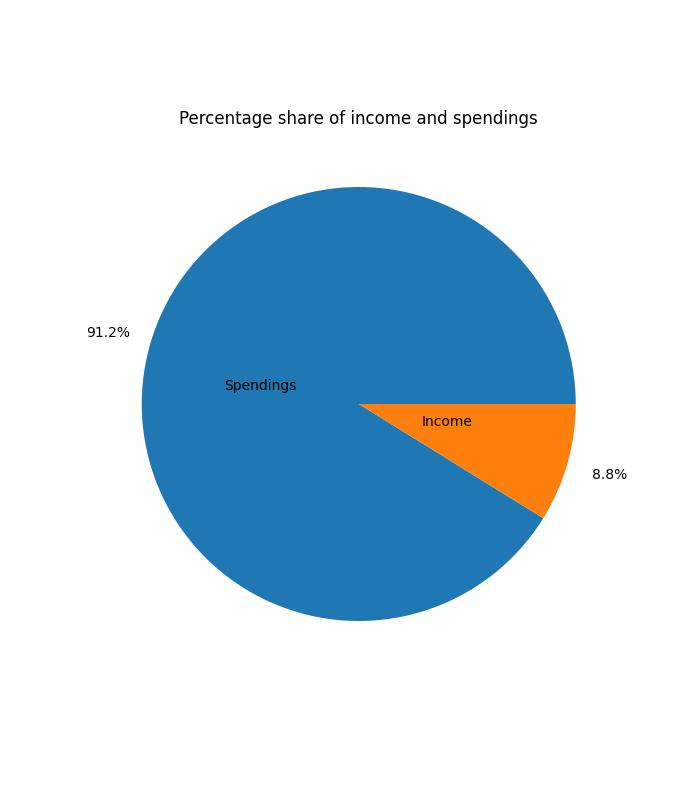
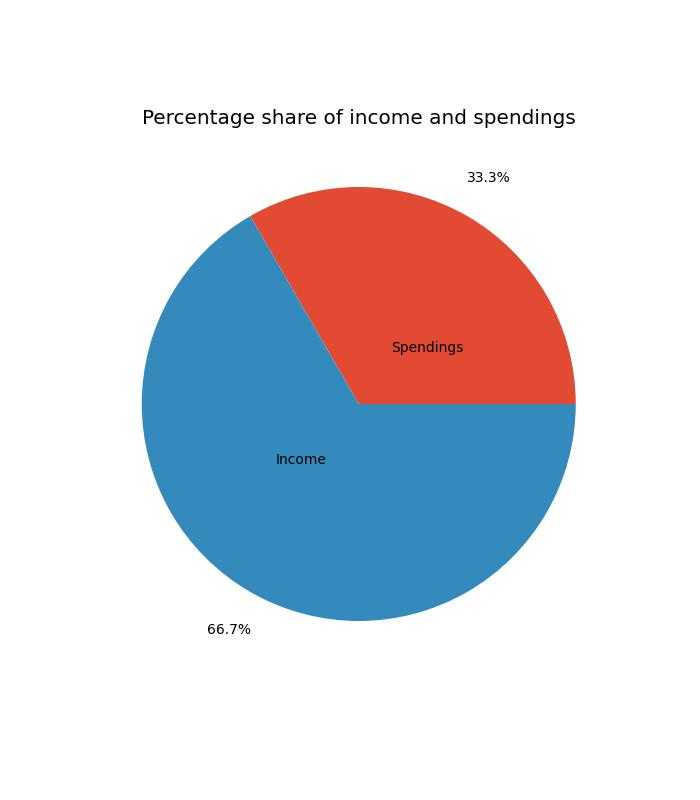
Final touches

diff --git a/src/mainscreen.py b/src/mainscreen.py
@@ -1,23 +1,23 @@
-from editspending import EditSpending
 from editincome import EditIncome
+from editspending import EditSpending
 
 from matplotlib import pyplot as plt
 
 from kivy.core.window import Window
 from kivy.storage.jsonstore import JsonStore
 
-from kivymd.uix.label.label import MDIcon
 from kivy.uix.image import Image
 from kivymd.uix.card import MDCard
 from kivymd.uix.label import MDLabel
 from kivymd.uix.screen import MDScreen
-from kivymd.uix.scrollview import ScrollView
+from kivymd.uix.label.label import MDIcon
 from kivymd.uix.gridlayout import GridLayout
+from kivymd.uix.scrollview import ScrollView
 from kivymd.uix.stacklayout import StackLayout
+from kivymd.uix.relativelayout import MDRelativeLayout
+from kivymd.uix.button import MDRectangleFlatIconButton
 from kivymd.uix.button.button import MDFloatingActionButton
 from kivymd.uix.bottomnavigation import MDBottomNavigation, MDBottomNavigationItem
-from kivymd.uix.button import MDRectangleFlatIconButton
-from kivymd.uix.relativelayout import MDRelativeLayout
 
 
 class MainScreen(MDScreen):
@@ -306,8 +306,9 @@ class MainScreen(MDScreen):
         self.total_amount.append(self.spending_total_amount)
         self.total_amount.append(self.income_total_amount)
         self.type = ["Spendings", "Income"]
-        plt.clf()
         bar_width = 0.25
+        plt.clf()
+        plt.style.use("ggplot")
         fig, ax = plt.subplots(figsize=(7, 8))
         ax.bar(
             self.months,

diff --git a/src/settingsscreen.py b/src/settingsscreen.py
@@ -1,11 +1,24 @@
+from kivymd.uix.list import MDList
 from kivymd.uix.screen import MDScreen
 from kivymd.uix.list import OneLineListItem
-from kivymd.uix.list import MDList
 from kivymd.uix.scrollview import MDScrollView
 
 
 class SettingsScreen(MDScreen):
-    def on_enter(self):
-        self.add_widget(MDScrollView(MDList(id="list")))
-        for i in range(20):
-            self.ids.list.add_widget(OneLineListItem(text=f"siema {i}"))
+    def on_pre_enter(self):
+        self.currencies = ["$", "€", "£", "¥", "₣", "zł"]
+        self.view = MDScrollView()
+        self.list = MDList()
+        self.ids["list"] = self.list
+        self.view.add_widget(self.list)
+        for cur in self.currencies:
+            self.list.add_widget(
+                OneLineListItem(text=cur, id=cur, on_release=self.save_to_file)
+            )
+        self.add_widget(self.view)
+
+    def save_to_file(self, instance=None):
+        self.file = open("currency.txt", "w")
+        self.currency = str(instance.id)
+        print(f"Something happened: {instance.id}")
+        # self.file.write(self.currency)

diff --git a/src/editincome.py b/src/editincome.py
@@ -29,7 +29,11 @@ class EditIncome(MDScreen):
                 self.name
             )["amount"]
             self.stored_spending_or_income.put(
-                btn_ID, name=name, icon=self.icon, amount=self.amount, date=self.date
+                btn_ID,
+                name=name,
+                icon=self.icon,
+                amount=self.amount,
+                date=self.date,
             )
             self.spending_income.put(
                 btn_ID,
@@ -50,4 +54,4 @@ class EditIncome(MDScreen):
                 self.spending_or_income_category_info.put(
                     self.name, amount=self.amount_from_category - self.amount_get
                 )
-                self.spending_or_income_category_info.put(name, amount_sent)
+                self.spending_or_income_category_info.put(name, amount=self.amount)

diff --git a/src/main.py b/src/main.py
@@ -1,11 +1,11 @@
-from appthemescreen import AppThemeScreen
-from customincome import CustomIncome
-from customspending import CustomSpending
 from editincome import EditIncome
-from editspending import EditSpending
 from infoscreen import InfoScreen
 from mainscreen import MainScreen
+from customincome import CustomIncome
+from editspending import EditSpending
 from secondscreen import SecondScreen
+from appthemescreen import AppThemeScreen
+from customspending import CustomSpending
 from settingsscreen import SettingsScreen
 
 from kivy.lang import Builder

diff --git a/src/editspending.py b/src/editspending.py
@@ -54,4 +54,4 @@ class EditSpending(MDScreen):
                 self.spending_or_income_category_info.put(
                     self.name, amount=self.amount_from_category - self.amount_get
                 )
-                self.spending_or_income_category_info.put(name, amount_sent)
+                self.spending_or_income_category_info.put(name, amount=self.amount)
